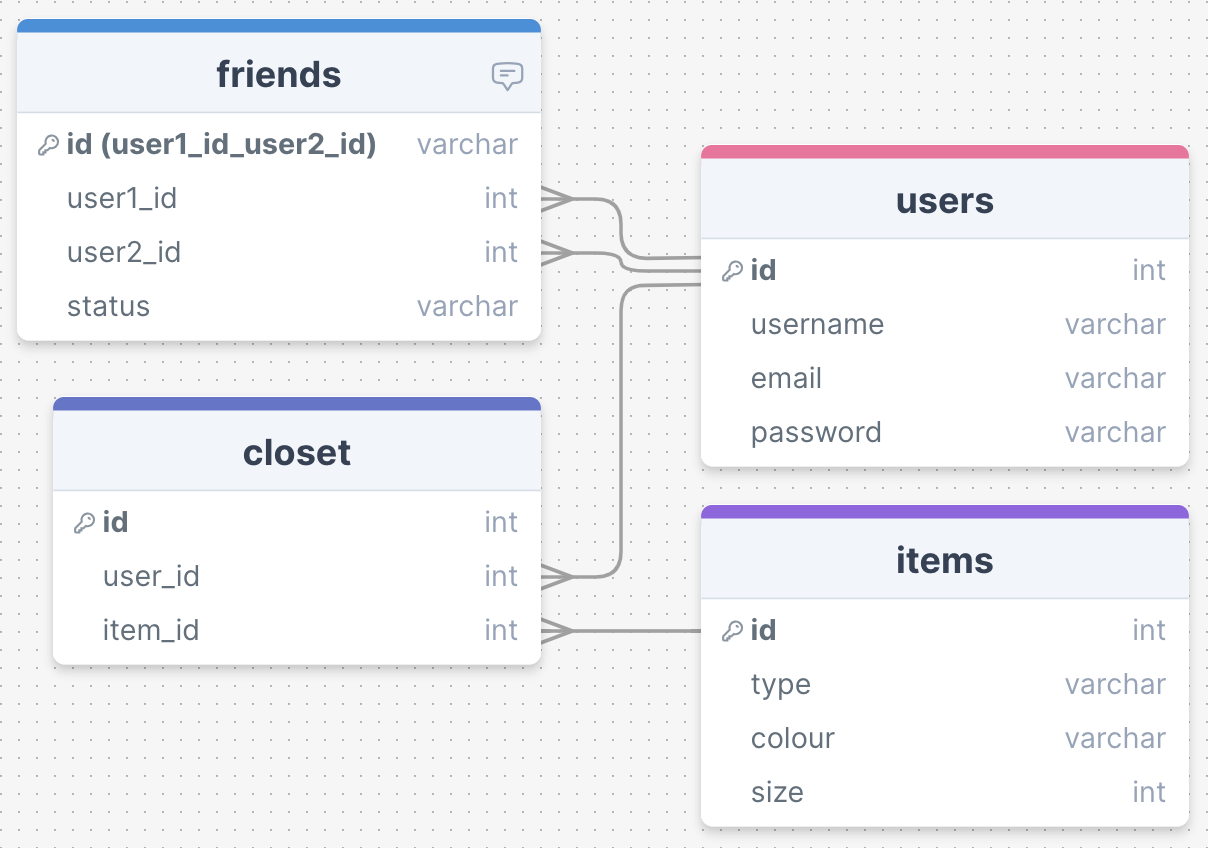
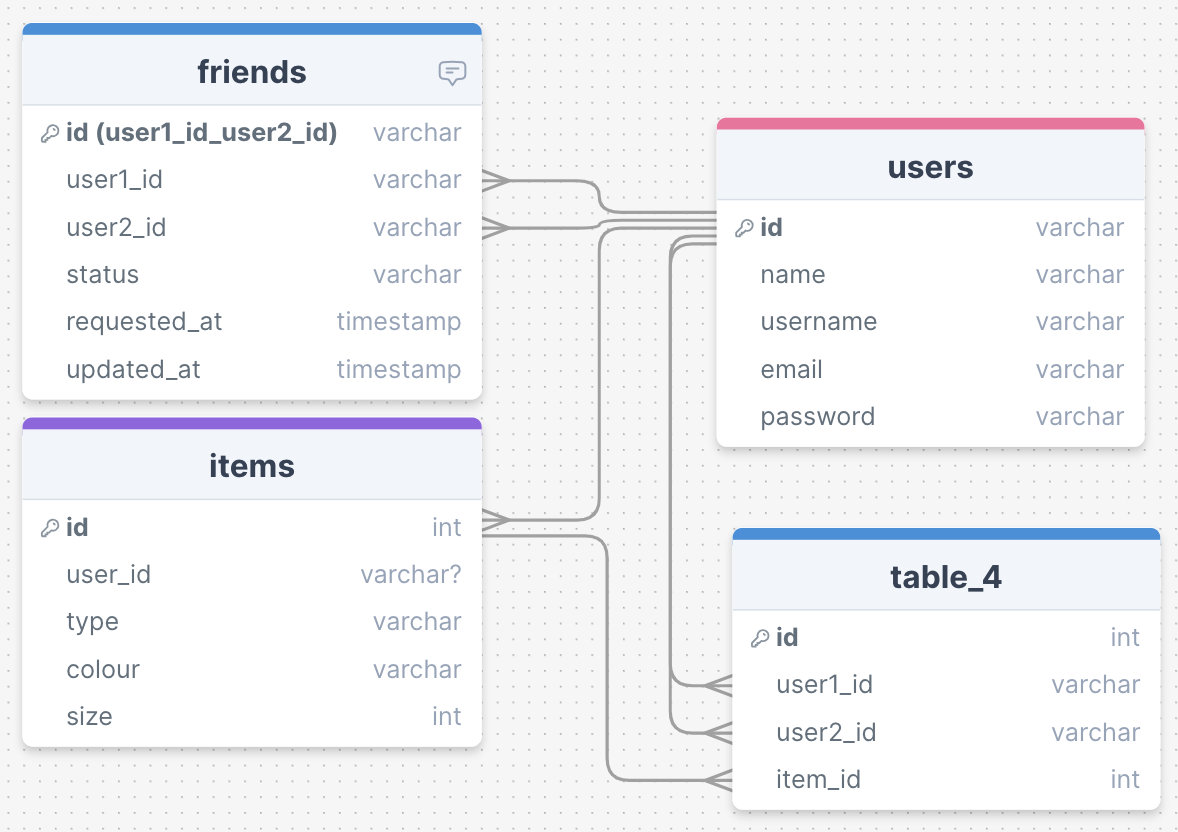
Add filters with dropdown menu

diff --git a/src/pages/ExplorePage/ExplorePage.jsx b/src/pages/ExplorePage/ExplorePage.jsx
@@ -13,13 +13,12 @@ const ExplorePage = () => {
 
     const fetchData = useCallback( async () => {
         try {
-            console.log("filtering")
             const response = await axios.get(`${BASE_URL}/items?${queryStr}`)
             setData(response.data);
         } catch (error) {
             console.error("Unable to retrieve data", error)
         }
-    })
+    }, [queryStr])
 
     useEffect(() => {
         fetchData();
@@ -48,13 +47,79 @@ const ExplorePage = () => {
         <div className='search' onSubmit={handleFilter}>
             <form className='search__form'>
                 <label className='search__label'>Type</label>
-                <input name='type' onChange={(e) => setType(e.target.value)}/>
+                <select
+                    name='type'
+                    value={type}
+                    onChange={(e) => {setType(e.target.value)}}
+                    className='search__input'
+                >
+                    <option value=''>Select</option>
+                    <option value='shirt'>Shirts</option>
+                    <option value='pants'>Pants</option>
+                    <option value='dress'>Dresses</option>
+                    <option value='skirt'>Skirts</option>
+                    <option value='shoes'>Shoes</option>
+                    <option value='outerwear'>Outerwear</option>
+                    <option value='accessory'>Accessories</option>                    
+                </select>
         
                 <label className='search__label'>Colour</label>
-                <input name='type' onChange={(e) => setColour(e.target.value)}/>
+                <select
+                    name='colour'
+                    value={colour}
+                    onChange={(e) => setColour(e.target.value)}
+                    className='search__input'
+                >
+                    <option value=''>Select</option>
+                    <option value='white'>White</option>
+                    <option value='black'>Black</option>
+                    <option value='blue'>Blue</option>
+                    <option value='gold'>Gold</option>
+                    <option value='green'>Green</option>
+                    <option value='orange'>Orange</option>
+                    <option value='pink'>Pink</option>
+                    <option value='purple'>Purple</option>
+                    <option value='red'>Red</option>
+                    <option value='silver'>Silver</option>
+                    <option value='yellow'>Yellow</option>
+                </select>
 
                 <label className='search__label'>Size</label>
-                <input name='type' onChange={(e) => setSize(e.target.value)}/>
+                {type === "shoes" ?
+                    <select
+                        name='size'
+                        value={size}
+                        onChange={(e) => setSize(e.target.value)}
+                    >
+                        <option value=''>Select</option>
+                        <option value='5'>5</option>
+                        <option value='6'>6</option>
+                        <option value='7'>7</option>
+                        <option value='8'>8</option>
+                        <option value='9'>9</option>
+                        <option value='10'>10</option>
+                        <option value='11'>11</option>
+                        <option value='12'>12</option>
+                    </select>
+                    :
+                    <select
+                        name='size'
+                        value={size}
+                        onChange={(e) => setSize(e.target.value)}
+                    >
+                        <option value=''>Select</option>
+                        <option value='XXS/0/25'>XXS/0/25</option>
+                        <option value='XS/2/26'>XS/2/32</option>
+                        <option value='S/4/27'>S/4/27</option>
+                        <option value='M/6/28'>M/6/28</option>
+                        <option value='M/8/29'>M/8/29</option>
+                        <option value='L/10/30'>L/10/30</option>
+                        <option value='L/12/31'>L/12/31</option>
+                        <option value='XL/14/32'>XL/14/32</option>
+                        <option value='2XL/16/33'>2XL/16/33</option>
+                        <option value='3XL/18/34'>3XL/18/34</option>
+                    </select>
+                }
             
                 <button type='submit'>Filter</button>
                 <button onClick={handleClear}>Clear</button>

diff --git a/README.md b/README.md
@@ -13,11 +13,9 @@ Friends and small communities
 - Enjoys wearing different things / trying new styles
 
 ### Features
-- As a logged in user, I want to easily upload pieces to my online wardrobe
-    - Name (text input), type (select), color (select), size (select) --> should be dynamic depending on type
-- As a logged in user, I want to connect with friends' accounts
-- As a logged in user, I want to see my friends' online wardrobes
-- As a logged in user, I want to search for items within my community according to parameters (same as above in uploading)
+- As a logged in user, I want to easily add clothing items to my online closet
+- As a logged in user, I want to connect with friends' accounts to see their closets
+- As a logged in user, I want to search for items within my community according to parameters
 
 ## Implementation
 
@@ -41,12 +39,12 @@ Friends and small communities
 ### Sitemap
 - Register
 - Login
-- User Dashboard
+- User Dashboard ?
 - Item pages
     - browse all items
     - see results based on search queries
-- Closet pages (closet-specific item pages)
-    - Personal closet
+- Closet pages (user-specific item pages)
+    - My Closet (with Add Item page)
     - Friend's closet
 - Friend/Closet list (list of friends that links to their wardrobe)
 
@@ -262,7 +260,6 @@ Response:
 - Create seeds for:
     - users
     - clothing items
-    - closets
     - friendships - include at least one sample friendship between two users
 
 - Deploy client and server projects so all commits will be reflected in production
@@ -319,5 +316,6 @@ Response:
 
 ## Nice-to-haves
 
-- Integrate adding friends (seeded in first sprint)
+- Implement requesting items from friends 
+- Implement adding friends (seeded in first sprint)
 - Forgot password functionality
